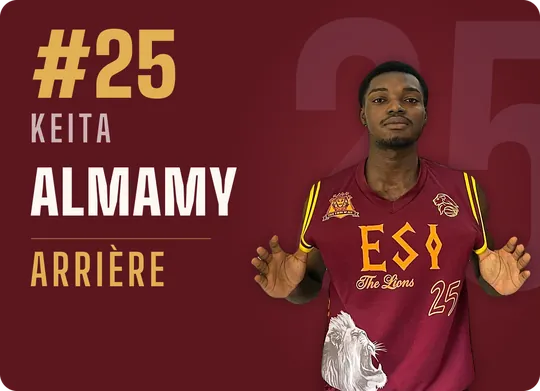
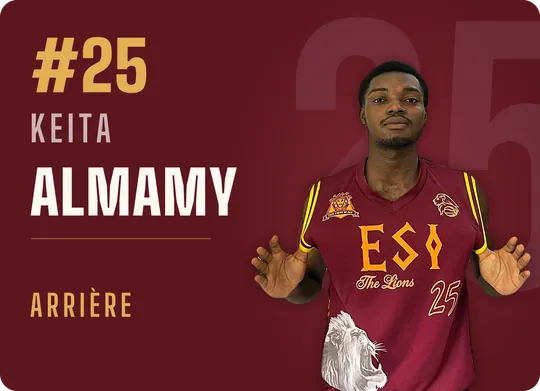
Cartes liste : numéro et poste plus petits, poste plus bas
Claude-Session: https://claude.ai/code/session_01XrgpiNzGbMDPcmnVP5w9tM

Changed region(s): [[0.0593, 0.0614, 0.3259, 0.2762], [0.0593, 0.6138, 0.3259, 0.8286]]

diff --git a/lib/data/player-card-images.ts b/lib/data/player-card-images.ts
@@ -23,7 +23,7 @@ export const CARD_HEIGHT = 780
 
 // Incrémenter cette valeur quand une carte est remplacée : les fichiers sont servis avec un
 // cache d'un an (immutable), le paramètre ?v= force les téléphones à recharger la nouvelle image.
-export const CARD_VERSION = 3
+export const CARD_VERSION = 4
 
 export function playerCardImage(jerseyNumber: number | null) {
   const file = jerseyNumber === null ? undefined : CARD_FILES[jerseyNumber]
